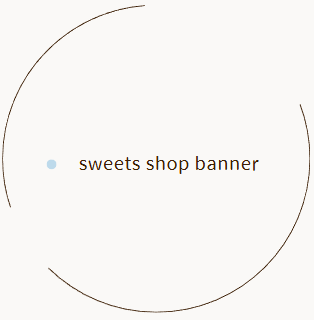
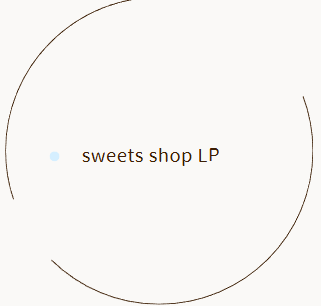
5/27

diff --git a/portfolio/portfolio/works-4.html b/portfolio/portfolio/works-4.html
@@ -36,7 +36,7 @@
 
       <article class="article">
         <div class="article-container">
-          <h2 class="article-title">スイーツショップのバナー【課題】</h2>
+          <h2 class="article-title">スイーツショップのLP【課題】</h2>
           <div class="article-body">
             <p style="text-align: center;">
               <img src="img/works-detail/works-4.png" alt="スイーツショップ">
@@ -48,7 +48,7 @@
             <h3>担当</h3>
             <p>デザイン</p>
             <h3>サイトの目的</h3>
-            <p>お客様の自社メディアサイトでの使用。また広告での使用。</p>
+            <p>お問い合わせ数の増加</p>
             <h3>使用技術</h3>
             <p>Adobe Photoshop</p>
             <h3>デザインについて</h3>

diff --git a/portfolio/portfolio/aboutme.html b/portfolio/portfolio/aboutme.html
@@ -47,15 +47,14 @@
             <p>山本 望加(Yamamoto Mika)</p>
 
             <h3>Personal</h3>
-            <p>1998年生まれ/奈良在住/A型</p>
+            <p>1998年生まれ/奈良在住</p>
 
             <h3>Like</h3>
             <p>書道・お味噌汁・かめ</p>
 
             <h3>Creer</h3>
             <p>
-              <li>2021年3月　法学部卒業</li>
-              <li>2021年4月　奈良県内のケーブルテレビ会社へ入社</li>
+              <li>2021年4月　大学卒業後、奈良県内の会社へ入社</li>
               <li>2025年1月　侍エンジニアにてWebデザイン・プログラミング学習開始</li>
             </p>
             <p>

diff --git a/portfolio/portfolio/css/style.css b/portfolio/portfolio/css/style.css
@@ -168,9 +168,9 @@ img {
 
 .works-item {
   width: 31.74603%;
-  margin-right: 1.58730%;
   margin-bottom: 40px;
   color: #3C1F05;
+  text-align: center;
 }
 
 .works-item:hover {
@@ -345,6 +345,11 @@ img {
   font-size: 18px;
   margin-bottom: 5px;
   padding-left: 1em;
+}
+
+
+.article-body a:hover{
+  color: #bddaeb;
 }
 
 .article-body img {
